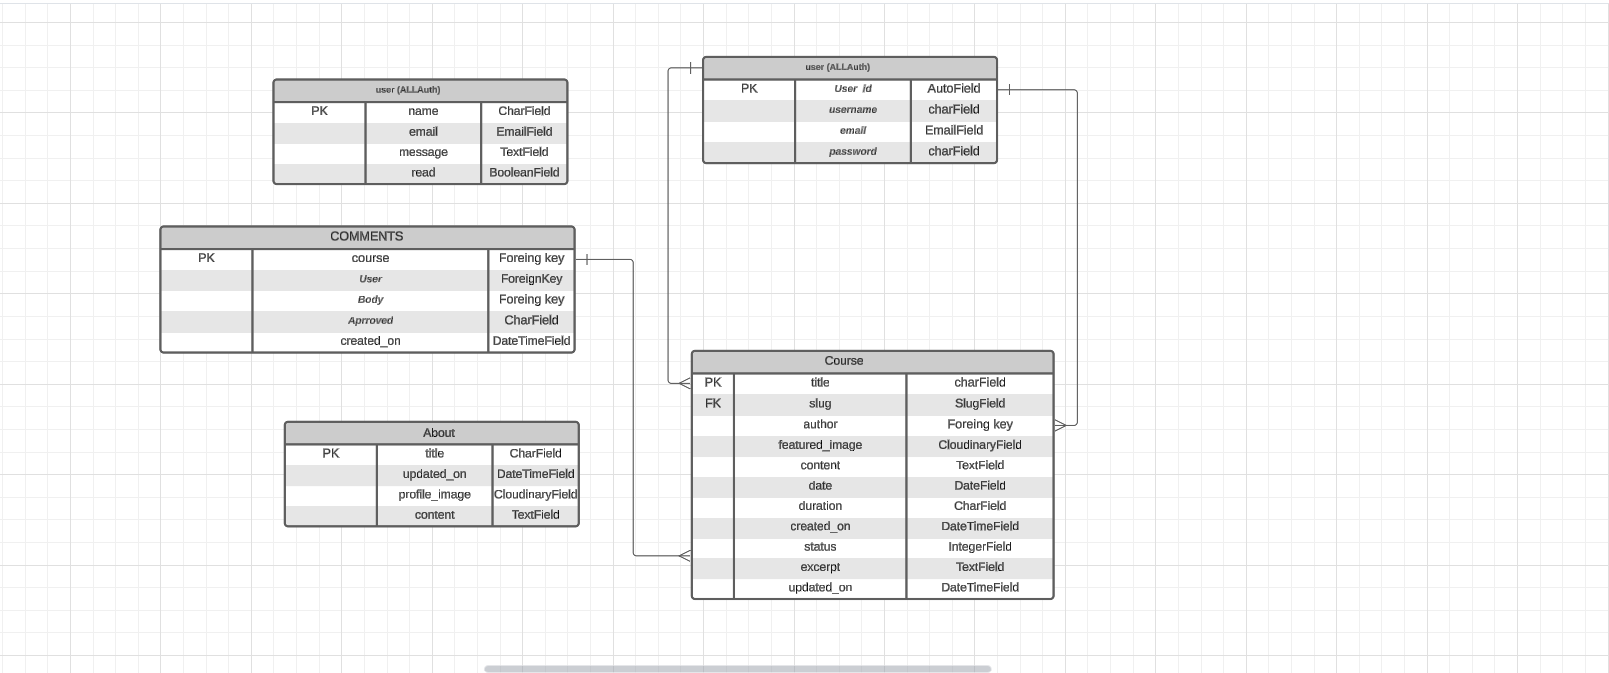
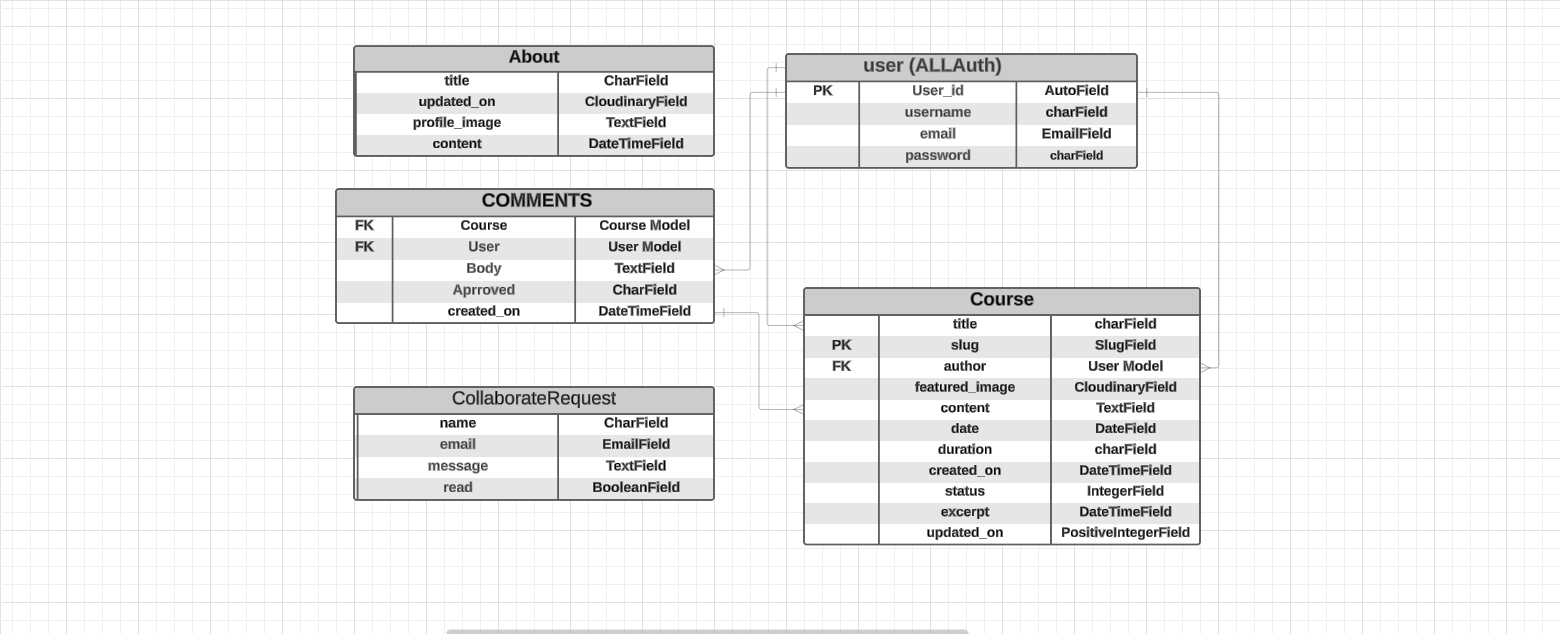
update readme file

diff --git a/README.md b/README.md
@@ -158,13 +158,27 @@ ____
 - status: The status of the course, which can be draft or published.
 - excerpt: A summary of the course.
 - updated_on: The date when the course information was last updated.
-- The Comment model has the following fields:
+____
+## The Comment model has the following fields:
 
 - course: A foreign key representing the course to which the comment is attached. When a course is deleted, associated comments are automatically deleted.
 - author: A foreign key representing the author of the comment. When a user is deleted, their associated comments are automatically deleted.
 - body: The content of the comment.
 - approved: The approval status of the comment. By default, comments are set as unapproved.
 - created_on: The date when the comment was create
+
+## The About  model has the following fields:
+
+- title: A CharField representing the title of the about section.
+- updated_on: A DateTimeField automatically updated with the current date and time whenever the model is saved.
+- profile_image: A CloudinaryField representing the image associated with the about section. It has a default value of 'placeholder'.
+- content: A TextField containing the detailed content or description.
+## model has the following fields:
+
+- name: A CharField representing the name of the person making the collaboration request.
+- email: An EmailField representing the email address of the person making the collaboration request.
+- message: A TextField containing the message or details of the collaboration request.
+- read: A BooleanField indicating whether the collaboration request has been read or not. It has a default value of False.
 ____
 ![data](docs/images/data.png) 
 ____
